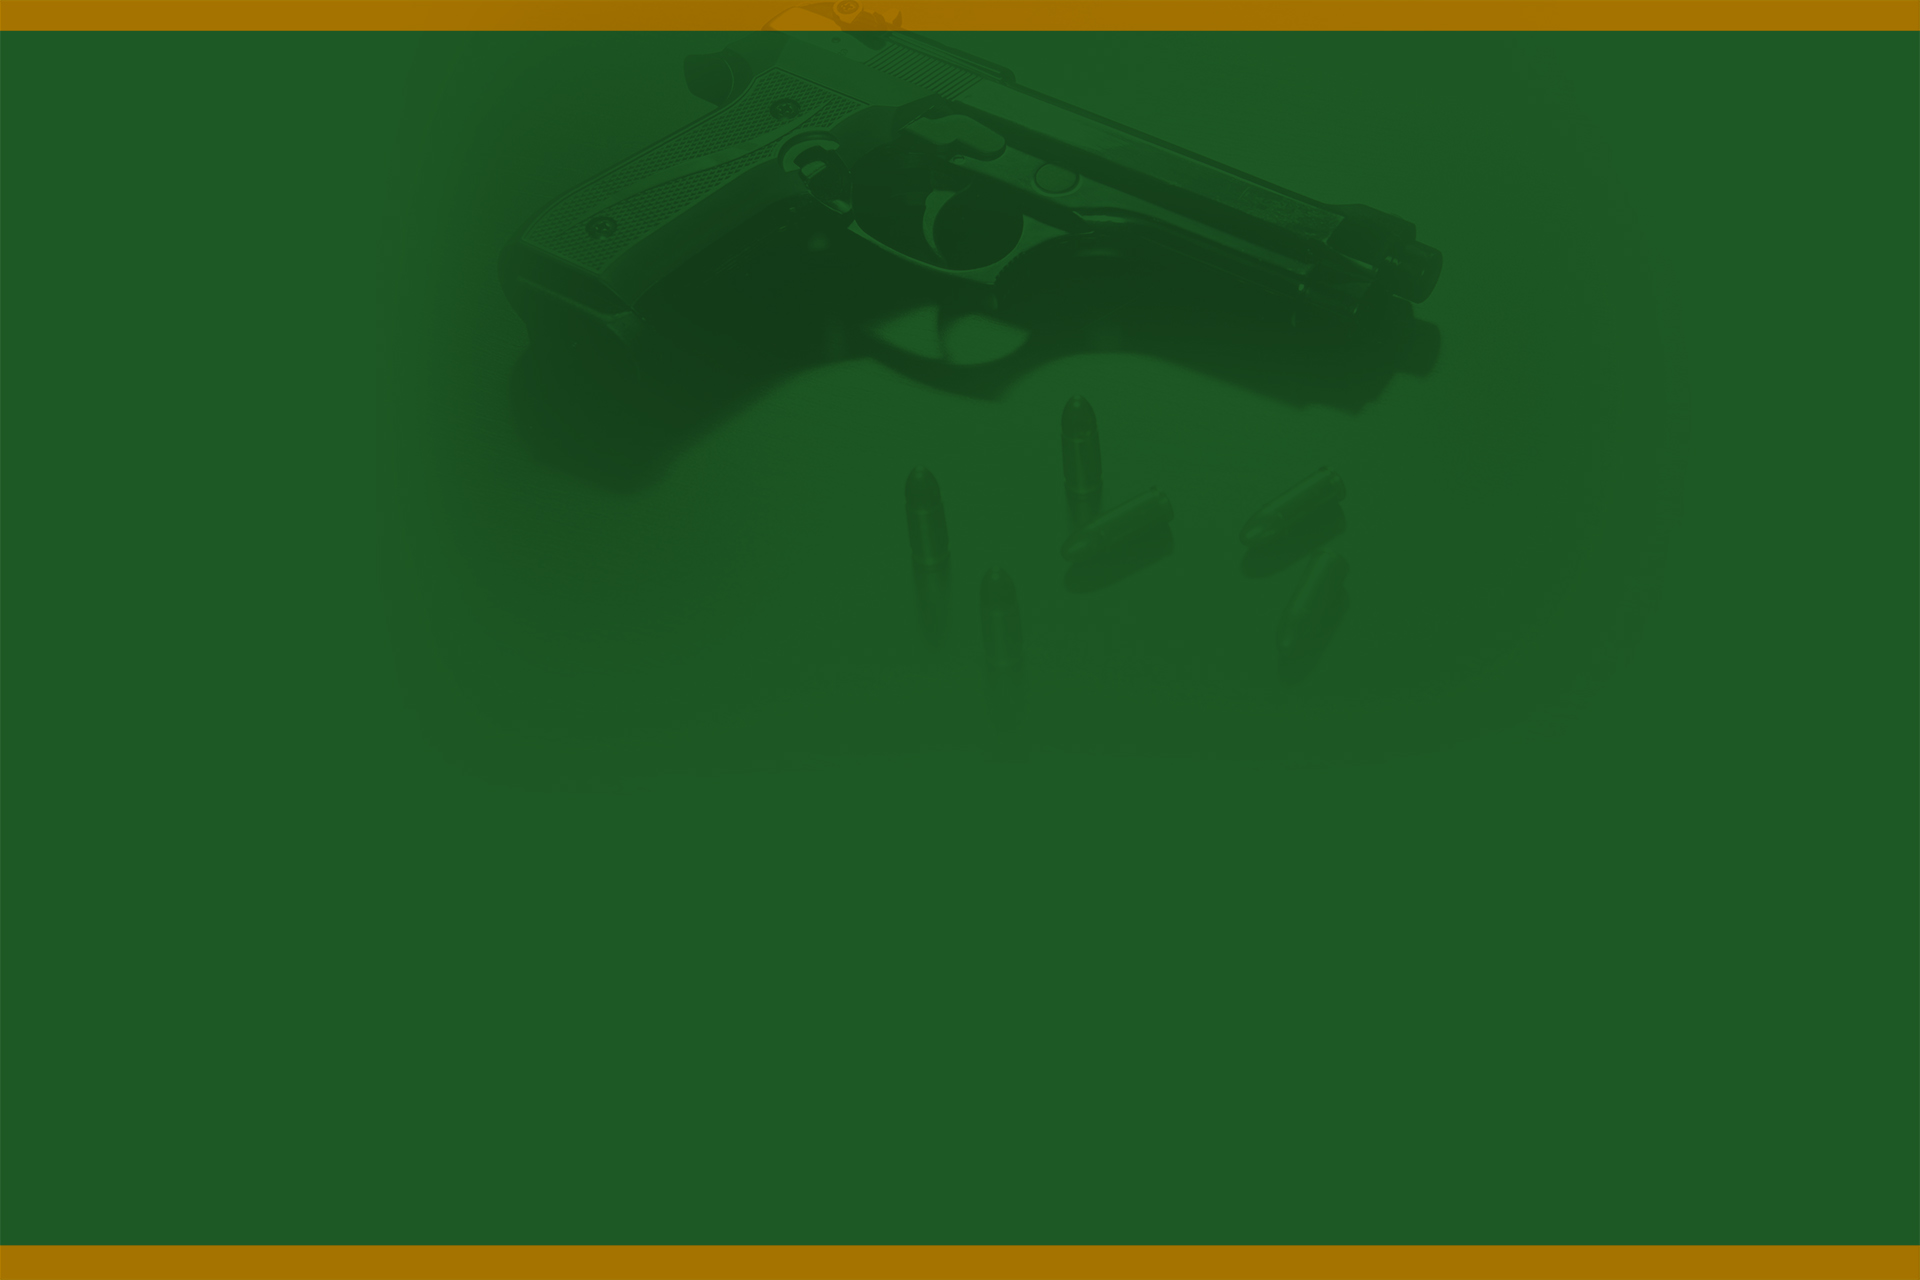
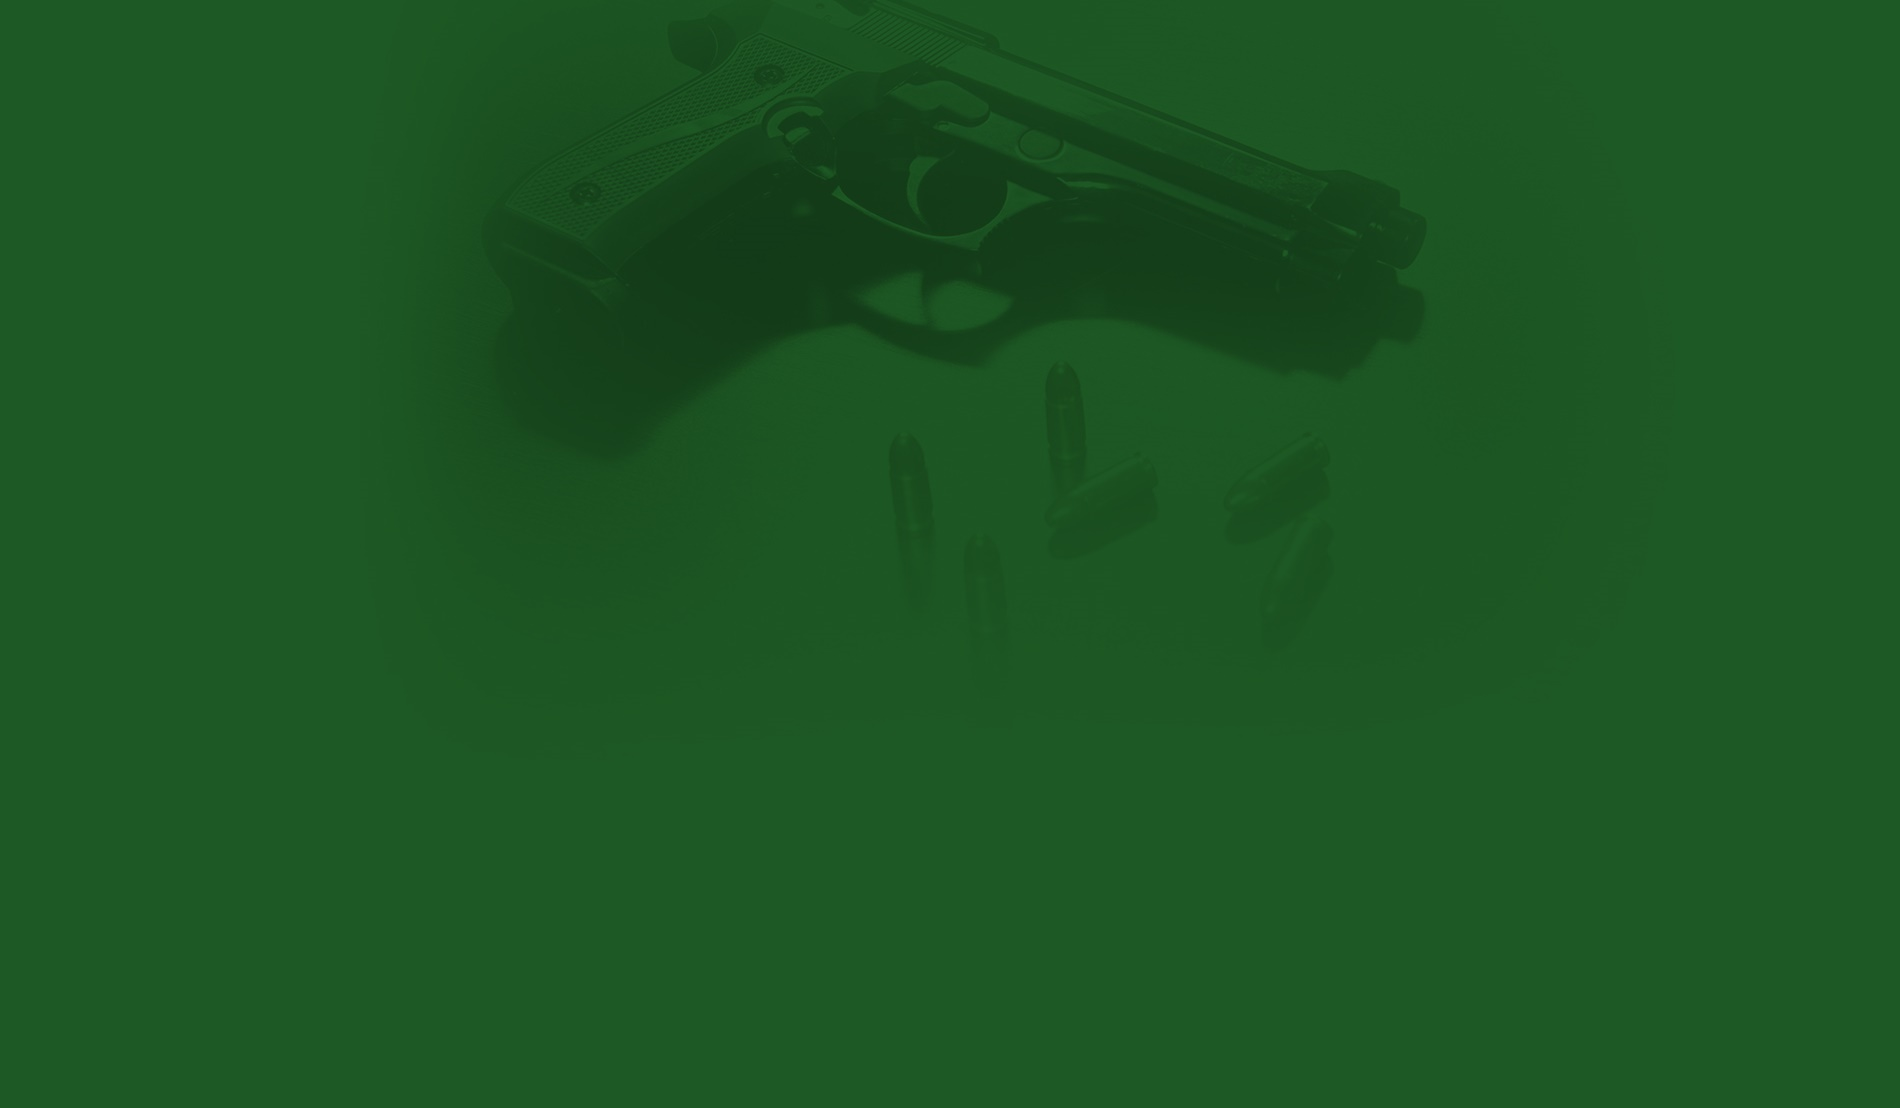
Modificaciones

Changed region(s): [[0.0, 0.9513, 1.0, 1.0], [0.0, 0.0, 1.0, 0.0307]]

diff --git a/style.css b/style.css
@@ -14,16 +14,22 @@ section.top-banner {
 }
 section.top-banner-text {
   	background-color: #b78001;
-  	padding-top: 15px;
-	padding-bottom: 15px;
+  	padding-top: 7px;
+	padding-bottom: 7px;
 	color: #fff;
+    text-align: center;
 }
 section.top-banner-text p {
     margin: 0px;
 }
 .header-logo {
-	margin-top: 30px;
+	margin-top: 85px;
 	margin-bottom: 30px;
+}
+
+
+.header-logo img{
+    width: 20%;
 }
 #navbar-header .navbar-collapse {
     padding-right: 0px;
@@ -39,6 +45,7 @@ section.top-banner-text p {
     min-height: 50px;
     margin-bottom: 20px;
     border: 0px none transparent;
+    margin-top: 1.5%;
 }
 #navbar-header.navbar-default .navbar-collapse, 
 #navbar-header.navbar-default .navbar-form {
@@ -50,8 +57,16 @@ section.top-banner-text p {
 	color: #fff;
 	border-right: 1px solid #2a7f35;
 	line-height: .8em;
+    padding-left: 12px;
+    padding-right: 12px;
 }
 
+#navbar-header .navbar-nav > li > a > img{
+    margin-top: -15px;
+    /* display: none; */
+    width: 35px;
+    /* height: 20px; */
+}
 #navbar-header.navbar-default .navbar-nav>li>a>i{
     font-size: 1.6em !important;
     line-height: 13px !important;
@@ -61,18 +76,23 @@ section.top-banner-text p {
     color: #36a645;
     background-color: transparent;
 }
-
+#navbar-header.navbar-default .navbar-nav > .active > a, 
+#navbar-header.navbar-default .navbar-nav > .active > a:focus, 
+#navbar-header.navbar-default .navbar-nav > .active > a:hover {
+	color: #36a645;
+    background-color: transparent;
+}
 #search-input{
     margin-top: -1px;
 }
 #banner-gun {
     width: 100%;
-    height: 300px;
+    height: 370px;
     background-color: #1d5925;
     background-image: url("assets/image/bg.jpg");
     background-size: cover;
     background-repeat: no-repeat;
-    background-position: 0px -20px;
+    background-position: 0px -25px;
     position: absolute;
     z-index: -100;
 }
@@ -140,6 +160,7 @@ footer #copy p {
     font-size: 1.5em;
 	background-color: #1d5925;
   	color: #fff;
+  	padding-top: 12px;
   	padding-bottom: 45px;
     padding-right: 15px;
     padding-left: 10px;
@@ -147,7 +168,7 @@ footer #copy p {
 .new-first .meta .title {
 	padding-left: 15px;
 	padding-right: 15px;
-	padding-top: 15px;
+	padding-top: 14px;
 }
 .new-first .meta .title a {
     font-family: 'chairdroberegular', 'calibri', arial;
@@ -254,7 +275,7 @@ a.category-link:hover{
 }
 #ultimas-noticias .info-item a.title {
     color: #fff;
-    font-size: 1em;
+    font-size: 1.1em;
 }
 #ultimas-noticias .info-item a:hover.title {
     text-decoration: none;

diff --git a/assets/custom/custom.css b/assets/custom/custom.css
@@ -86,6 +86,7 @@ hr {
   font-weight: bold;
   color: #fff;
   padding:0px 5px 1px 5px;
+  letter-spacing: 0px;
 }
 .container .etiqueta.security {
   background-color: #1d5925;
@@ -299,15 +300,14 @@ a {
 .contenido #news_dest .item .info a {
   font-family: 'chairdroberegular', 'calibri', arial;
   margin: 3% auto;
-  font-size: 1.1em;
+  font-size: 1.2em;
   font-weight: bold;
   color: #555;
-  letter-spacing: 1px;
+  letter-spacing: 1.1px;
   text-decoration: none;
 }
-
 .contenido #news_last{
-	margin-top: 2%;
+	/*margin-top: 2%;*/
 }
 .contenido #news_last #news_content {
   border-right: 1px dotted #ccc;
@@ -321,7 +321,7 @@ a {
     text-decoration: none;
 }
 .contenido #news_last #news_content h4 {
-  font-size: 1.7em;
+  font-size: 1.9em;
   font-family: "chairdrobe_roundedbold", "calibri", arial;
   letter-spacing: 1px;
   font-weight: bold;
@@ -396,7 +396,9 @@ a {
 .contenido #news_last #news_ultimas .news div.content {
   background-color: #2D6325;
   color: #fff;
-  padding-bottom: 35%;
+ /* padding-bottom: 35%;*/
+  height: 1290px;
+overflow: hidden;
 }
 .contenido #news_last #news_ultimas .news div.content .header {
   width: 100%;
@@ -666,11 +668,11 @@ a {
 
 #desarrollo_news h2 {
   font-family: verdana, 'chairdrobe_roundedbold';
-  font-size: 3.5em;
+  font-size: 2.7em;
   color: #000;
   letter-spacing: 1px;
   width: 90%;
-  margin-bottom: 2%;
+  margin-bottom: 3%;
   font-weight: bold;
 }
 
@@ -683,6 +685,7 @@ a {
    font-size: 1.5em;
    width: 99%;
    line-height: 1.1em;
+   margin-bottom: 3%;
 }
 
 #desarrollo{
@@ -703,9 +706,14 @@ a {
 }
 
 #desarrollo .content p{
-  font-size: 1.2em;
+  font-size: 1.3em;
   margin-bottom: 3%;
   text-align: left;
+}
+
+#desarrollo .content p iframe{
+    width: 90% !Important;
+    height: 350px !Important;
 }
 
 .view{

diff --git a/functions.php b/functions.php
@@ -180,6 +180,43 @@ if (!function_exists('get_menu_footer')) {
     }
 }
 
+function the_excerpt_max_charlength($charlength) {
+    $excerpt = get_the_excerpt();
+    $charlength++;
+
+    if ( mb_strlen( $excerpt ) > $charlength ) {
+        $subex = mb_substr( $excerpt, 0, $charlength - 5 );
+        $exwords = explode( ' ', $subex );
+        $excut = - ( mb_strlen( $exwords[ count( $exwords ) - 1 ] ) );
+        if ( $excut < 0 ) {
+            echo mb_substr( $subex, 0, $excut );
+        } else {
+            echo $subex;
+        }
+        echo '';
+    } else {
+        echo $excerpt;
+    }
+}
+
+function the_max_charlength($text, $charlength) {
+    $excerpt = $text;
+    $charlength++;
+
+    if ( mb_strlen( $excerpt ) > $charlength ) {
+        $subex = mb_substr( $excerpt, 0, $charlength - 5 );
+        $exwords = explode( ' ', $subex );
+        $excut = - ( mb_strlen( $exwords[ count( $exwords ) - 1 ] ) );
+        if ( $excut < 0 ) {
+            echo mb_substr( $subex, 0, $excut );
+        } else {
+            echo $subex;
+        }
+        echo '';
+    } else {
+        echo $excerpt;
+    }
+}
 
 function post_type_video() {
     

diff --git a/header.php b/header.php
@@ -77,7 +77,12 @@
                     <div class="container-fluid">
                     <!-- Collect the nav links, forms, and other content for toggling -->
                     <div class="collapse navbar-collapse" id="bs-example-navbar-collapse-1">
-                        <ul class="nav navbar-nav">
+                        <ul class="nav navbar-nav">                            
+                            <li class="border-right">
+                                <a target="" class="item-home" href="<?php echo esc_url( home_url( '/' ) ); ?>">
+                                    <img src="<?php echo get_template_directory_uri(); ?>/assets/image/logo_nav.png">
+                                </a>
+                            </li>                            
                             <?php echo get_mainmenu('menu-main'); ?>
                         </ul>
                         <?php get_search_form(); ?>

diff --git a/index.php b/index.php
@@ -8,7 +8,7 @@
 						<div class="col-xs-8">
 							<?php get_template_part( 'template/header', 'first' ); ?>
 						</div>
-						<div class="col-xs-4">
+						<div class="col-xs-4" style="padding-left: 0px;">
 							<?php get_template_part( 'template/header', 'aside' ); ?>
 						</div>
 					</div>
@@ -70,7 +70,7 @@
 								</div>
 								<div class="col-xs-6">
 									<p>
-										<?php the_excerpt(); ?>
+										<?php the_excerpt_max_charlength(160); ?>
 									</p>
 								</div>
 							</div>

diff --git a/template/header-first-category.php b/template/header-first-category.php
@@ -31,7 +31,7 @@
 	<div class="meta" style="background: <?php echo $color; ?>">
 		<div class="title" id="content">
 			<a href="<?php echo get_permalink($post->ID); ?>">
-				<?php echo get_the_title($post->ID); ?>
+				<?php the_max_charlength(get_the_title($post->ID),80); ?>
 			</a>
 		</div>
 		<div class="share">

diff --git a/template/aside-news-dest-category.php b/template/aside-news-dest-category.php
@@ -61,7 +61,7 @@
 				<div class="col-xs-12 pd"><hr></div>
 				<div class="col-xs-12 pd">
 					<a href="<?php echo get_permalink($post->ID); ?>">
-						<?php echo get_the_title($post->ID); ?>
+						<?php  the_max_charlength(get_the_title($post->ID),60); ?>
 					</a>
 				</div>
 			</div>

diff --git a/template/aside-news-dest-page.php b/template/aside-news-dest-page.php
@@ -59,7 +59,7 @@
 				<div class="col-xs-12 pd"><hr></div>
 				<div class="col-xs-12 pd">
 					<a href="<?php echo get_permalink($post->ID); ?>">
-						<?php echo get_the_title($post->ID); ?>
+						<?php  the_max_charlength(get_the_title($post->ID),60); ?>
 					</a>
 				</div>
 			</div>

diff --git a/template/aside-news-dest.php b/template/aside-news-dest.php
@@ -59,7 +59,7 @@
 				<div class="col-xs-12 pd"><hr></div>
 				<div class="col-xs-12 pd">
 					<a href="<?php echo get_permalink($post->ID); ?>">
-						<?php echo get_the_title($post->ID); ?>
+						<?php  the_max_charlength(get_the_title($post->ID),60); ?>
 					</a>
 				</div>
 			</div>

diff --git a/template/header-first.php b/template/header-first.php
@@ -28,7 +28,7 @@
 	<div class="meta">
 		<div class="title" id="content">
 			<a href="<?php echo get_permalink($post->ID); ?>">
-				<?php echo get_the_title($post->ID); ?>
+				<?php the_max_charlength(get_the_title($post->ID),80); ?>
 			</a>
 		</div>
 		<div class="share">

diff --git a/template/aside-news.php b/template/aside-news.php
@@ -6,7 +6,7 @@
         $args = 
         	array(
         		'post_type' => 'post', 
-        		'numberposts' => 4, 
+        		'numberposts' => 5, 
         		'orderby' => 'date', 
         		'order' => 'DESC',
         		'post_status' => 'publish',

diff --git a/template/header-aside.php b/template/header-aside.php
@@ -42,7 +42,7 @@
 						?>
 					</div>
 					<a href="<?php echo get_permalink($post->ID); ?>">
-						<?php echo get_the_title($post->ID); ?>
+						<?php the_max_charlength(get_the_title($post->ID),60); ?>
 					</a>
 				</div>
 			</div>
